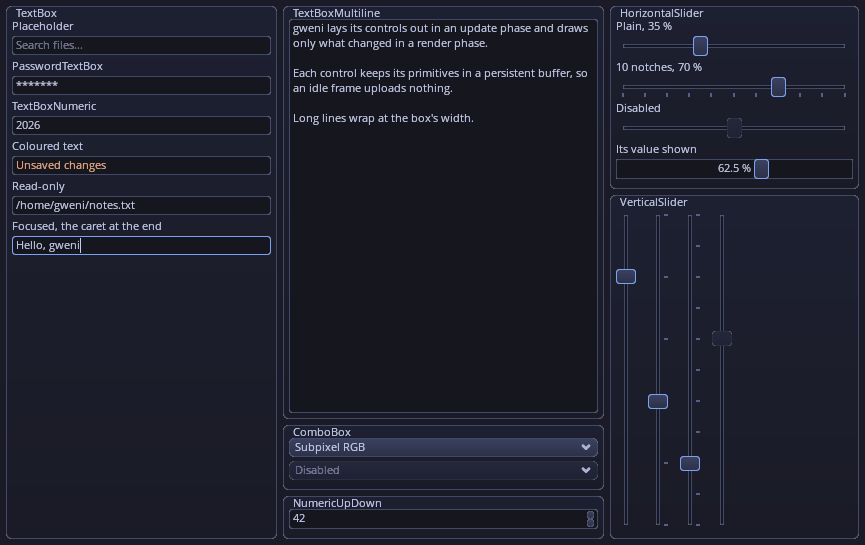
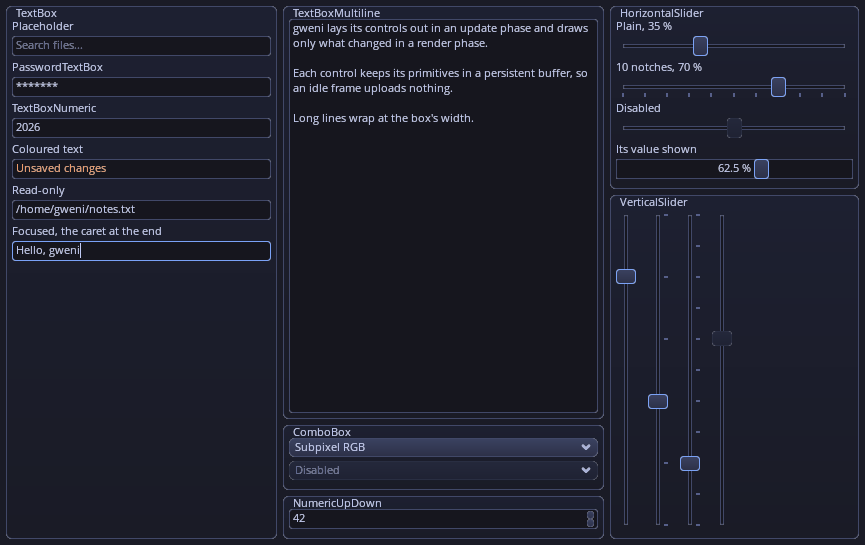
TextBox: Fixed size flags, so a text box keeps the size it asks for
TextBox inherited Label's {Elastic, Elastic}: dock None, it was sized to
its text (ColorPicker's 26x16 numeric boxes were 20x19 for "50"), and in
a layout cell the request was only a minimum, so a long text widened the
box up to the cell instead of scrolling. A text box scrolls its text to
the caret, so its size is now the one asked for, for every subclass.

- tests/unit/requestedSize.cpp: a TextBoxNumeric stays 26x16 for "",
  "5", "50", "255" and a setText after layout; a TextBox in a
  VerticalLayout stays 200x20 with text wider than 200 (it grew to 448
  and 640 before); docked Center it fills its dock rect.
- A Top/Bottom dock leaves a Fixed width as asked, so ShowcaseInputDemo's
  text rows (and its NumericUpDown) take {Elastic, Fixed} to span their
  section as before.
- textWrapEdits: the keystroke-cost box is 100 high, so both document
  lengths overflow it and scroll the caret (a box sized to its text no
  longer hid that path from the short one).
- multiline_keys tests click TextBoxDemo's blank row at its new y.
- docs/images: ShowcaseInputDemo, ShowcaseWindowsDemo and the hero
  regenerated (rows 20 high, the TextBox's own height, not 19).

Changed region(s): [[0.0, 0.0936, 0.3121, 0.4679]]

diff --git a/tests/unit/requestedSize.cpp b/tests/unit/requestedSize.cpp
@@ -12,6 +12,10 @@
  *
  *  A size request caps a ScrollControl, so the library's own menus ask for no
  *  height: a Menu and a ComboBox's list are as high as their items.
+ *
+ *  A TextBox is Fixed: it is the size it asked for whatever its text, in a
+ *  Base parent and in a layout cell (it scrolls its text, it is no Label that
+ *  sizes to it), while docked Center it still fills its dock rect.
  */
 #include "headlessFixture.h"
 
@@ -20,6 +24,7 @@
 #include <gweni/controls/menu.h>
 #include <gweni/controls/menuItem.h>
 #include <gweni/controls/menuStrip.h>
+#include <gweni/controls/textBox.h>
 
 #include <doctest/doctest.h>
 
@@ -638,4 +643,62 @@ TEST_CASE("a MenuStrip in a layout is as high as its items, its 200x22 only the 
     // not the cell's 480, and not capped at the 22 it asked for
     CHECK(strip->getHeight() == std::max(22, file->getHeight()));
     CHECK(strip->getWidth() == 200);
+}
+
+TEST_CASE("a TextBoxNumeric in a Base parent is the 26x16 it asked for, whatever its digits")
+{
+    Scene scene;
+    controls::Base *panel=scene.centerPanel();
+    controls::TextBoxNumeric *numeric=panel->newChild<controls::TextBoxNumeric>("numeric");
+    numeric->setAlignment(Alignment::Absolute);
+    numeric->setPos(105, 0);
+    numeric->setSize(26, 16);
+
+    for(const char *digits:{"", "5", "50", "255", "5", ""})
+    {
+        CAPTURE(digits);
+        // each a setText after the last layout, so the digit count changes
+        numeric->setText(digits);
+        scene.settle();
+        CHECK(text(numeric->getBounds()) == text(Rect(105, 0, 26, 16)));
+    }
+}
+
+TEST_CASE("a TextBox in a VerticalLayout stays 200x20 with a text wider than 200")
+{
+    Scene scene;
+    controls::Base *panel=scene.centerPanel();
+    panel->setLayout(new controls::VerticalLayout());
+    controls::TextBox *box=panel->newChild<controls::TextBox>("box");
+    const String wide(100, 'w');
+    box->setText(wide);
+    scene.settle();
+
+    // the text would widen it past its request, up to the 640 cell
+    REQUIRE(scene.renderer.measureText(box->getFont(), wide).x > 200);
+    CHECK(text(box->getBounds()) == text(Rect(0, 0, 200, 20)));
+
+    // typing more scrolls the text; it never grows the box
+    box->setText(wide+wide);
+    scene.settle();
+    CHECK(text(box->getBounds()) == text(Rect(0, 0, 200, 20)));
+}
+
+TEST_CASE("a TextBox docked Center fills its dock rect")
+{
+    Scene scene;
+    controls::Base *panel=scene.canvas->newChild<controls::Base>("panel");
+    panel->setAlignment(Alignment::Absolute);
+    panel->setSizeFlags({SizeFlag::Fixed, SizeFlag::Fixed});
+    panel->setBounds(10, 10, 300, 40);
+    controls::TextBox *box=panel->newChild<controls::TextBox>("box");
+    box->setDock(DockPosition::Center);
+    box->setText("short");
+    scene.settle();
+    CHECK(text(box->getBounds()) == text(Rect(0, 0, 300, 40)));
+
+    // nor does a text wider than the rect move it
+    box->setText(String(100, 'w'));
+    scene.settle();
+    CHECK(text(box->getBounds()) == text(Rect(0, 0, 300, 40)));
 }

diff --git a/examples/demo/showcaseInput.cpp b/examples/demo/showcaseInput.cpp
@@ -28,6 +28,17 @@ void addCaption(controls::Base *parent, const String &text)
     caption->setMargin(Margin(0, 0, 0, 2));
 }
 
+//! A text box row, as wide as its section: a TextBox is Fixed, and a Top dock
+//! leaves a Fixed width as it was asked for (200, a NumericUpDown's 100).
+template<typename T>
+T *textRow(controls::Base *parent)
+{
+    T *row=showcase::addRow<T>(parent);
+
+    row->setSizeFlags({SizeFlag::Elastic, SizeFlag::Fixed});
+    return row;
+}
+
 }//namespace
 
 // Three columns of titled sections filling the page (the shell's centre pane,
@@ -45,17 +56,17 @@ GWENI_CONTROL_CONSTRUCTOR(ShowcaseInputDemo)
         controls::GroupBox *section=showcase::addSection(left, "TextBox");
 
         addCaption(section, "Placeholder");
-        showcase::addRow<controls::TextBox>(section)->setPlaceholder("Search files...");
+        textRow<controls::TextBox>(section)->setPlaceholder("Search files...");
 
         addCaption(section, "PasswordTextBox");
-        showcase::addRow<controls::PasswordTextBox>(section)->setText("hunter2");
+        textRow<controls::PasswordTextBox>(section)->setText("hunter2");
 
         addCaption(section, "TextBoxNumeric");
-        showcase::addRow<controls::TextBoxNumeric>(section)->setText("2026");
+        textRow<controls::TextBoxNumeric>(section)->setText("2026");
 
         addCaption(section, "Coloured text");
         {
-            controls::TextBox *coloured=showcase::addRow<controls::TextBox>(section);
+            controls::TextBox *coloured=textRow<controls::TextBox>(section);
 
             coloured->setText("Unsaved changes");
             coloured->setTextColor(Color(255, 158, 100, 255));
@@ -63,14 +74,14 @@ GWENI_CONTROL_CONSTRUCTOR(ShowcaseInputDemo)
 
         addCaption(section, "Read-only");
         {
-            controls::TextBox *readOnly=showcase::addRow<controls::TextBox>(section);
+            controls::TextBox *readOnly=textRow<controls::TextBox>(section);
 
             readOnly->setText("/home/gweni/notes.txt");
             readOnly->setEditable(false);
         }
 
         addCaption(section, "Focused, the caret at the end");
-        m_focused=showcase::addRow<controls::TextBox>(section);
+        m_focused=textRow<controls::TextBox>(section);
         m_focused->setText("Hello, gweni");
         m_focused->focus();
         m_focused->moveCaretToend();
@@ -106,7 +117,7 @@ GWENI_CONTROL_CONSTRUCTOR(ShowcaseInputDemo)
     }
     {
         controls::GroupBox *section=showcase::addSection(middle, "NumericUpDown", false);
-        controls::NumericUpDown *number=showcase::addRow<controls::NumericUpDown>(section);
+        controls::NumericUpDown *number=textRow<controls::NumericUpDown>(section);
 
         number->setMin(0);
         number->setMax(100);

diff --git a/tests/unit/textWrapEdits.cpp b/tests/unit/textWrapEdits.cpp
@@ -454,7 +454,9 @@ size_t measuresForKeystroke(int paragraphs)
     controls::TextBoxMultiline *box=canvas->newChild<controls::TextBoxMultiline>();
     const String source=document(paragraphs);
 
-    box->setBounds(0, 0, 200, 500);
+    // a TextBox is Fixed: both lengths overflow this box, so both scroll the
+    // caret into view (a document that fits takes 4 measures fewer)
+    box->setBounds(0, 0, 200, 100);
     box->setText(source);
     canvas->updateCanvas();
     canvas->renderCanvas();

diff --git a/source/controls/textBox.cpp b/source/controls/textBox.cpp
@@ -62,6 +62,9 @@ GWENI_CONTROL_CONSTRUCTOR(TextBox)
 //    enlargePrimitiveIds(this, m_primitiveIds, 11);
 
     setSize(200, 20);
+    // the box scrolls its text to the caret, so its size is the one asked for,
+    // never its text's (a Label's Elastic)
+    setSizeFlags({SizeFlag::Fixed, SizeFlag::Fixed});
     setMouseInputEnabled(true);
     setKeyboardInputEnabled(true);
     setPadding(Padding(4, 2, 4, 2));
